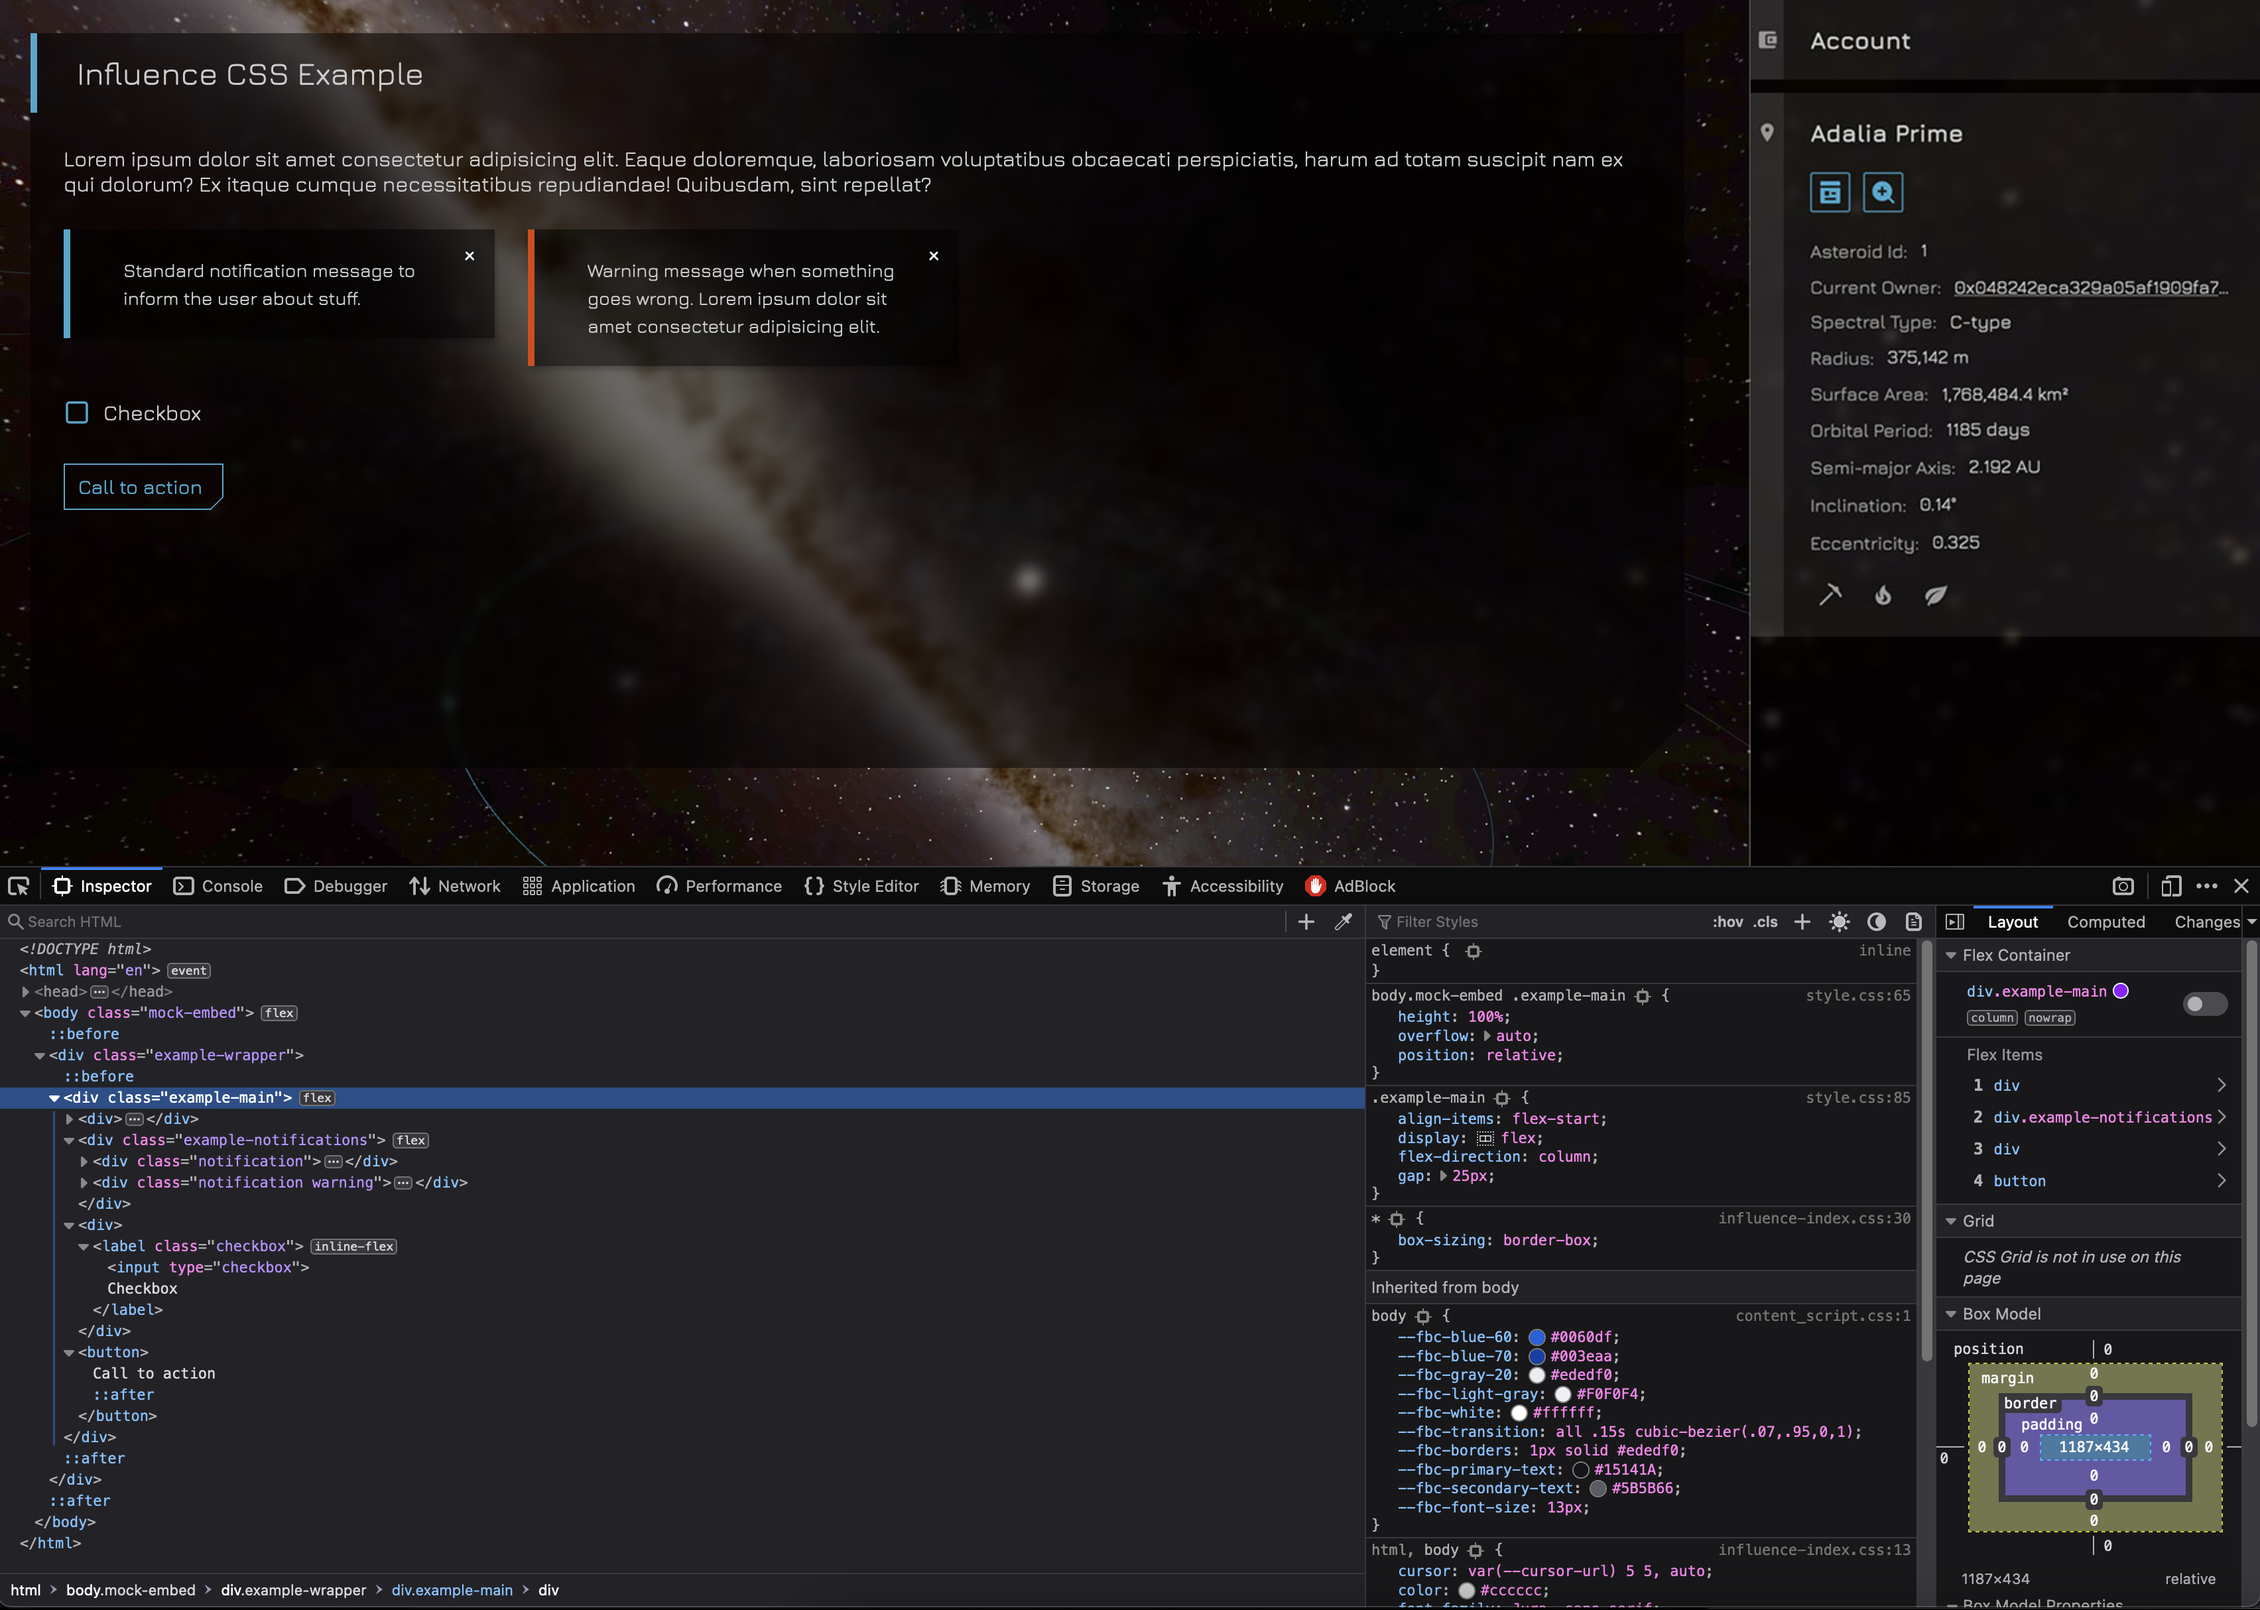
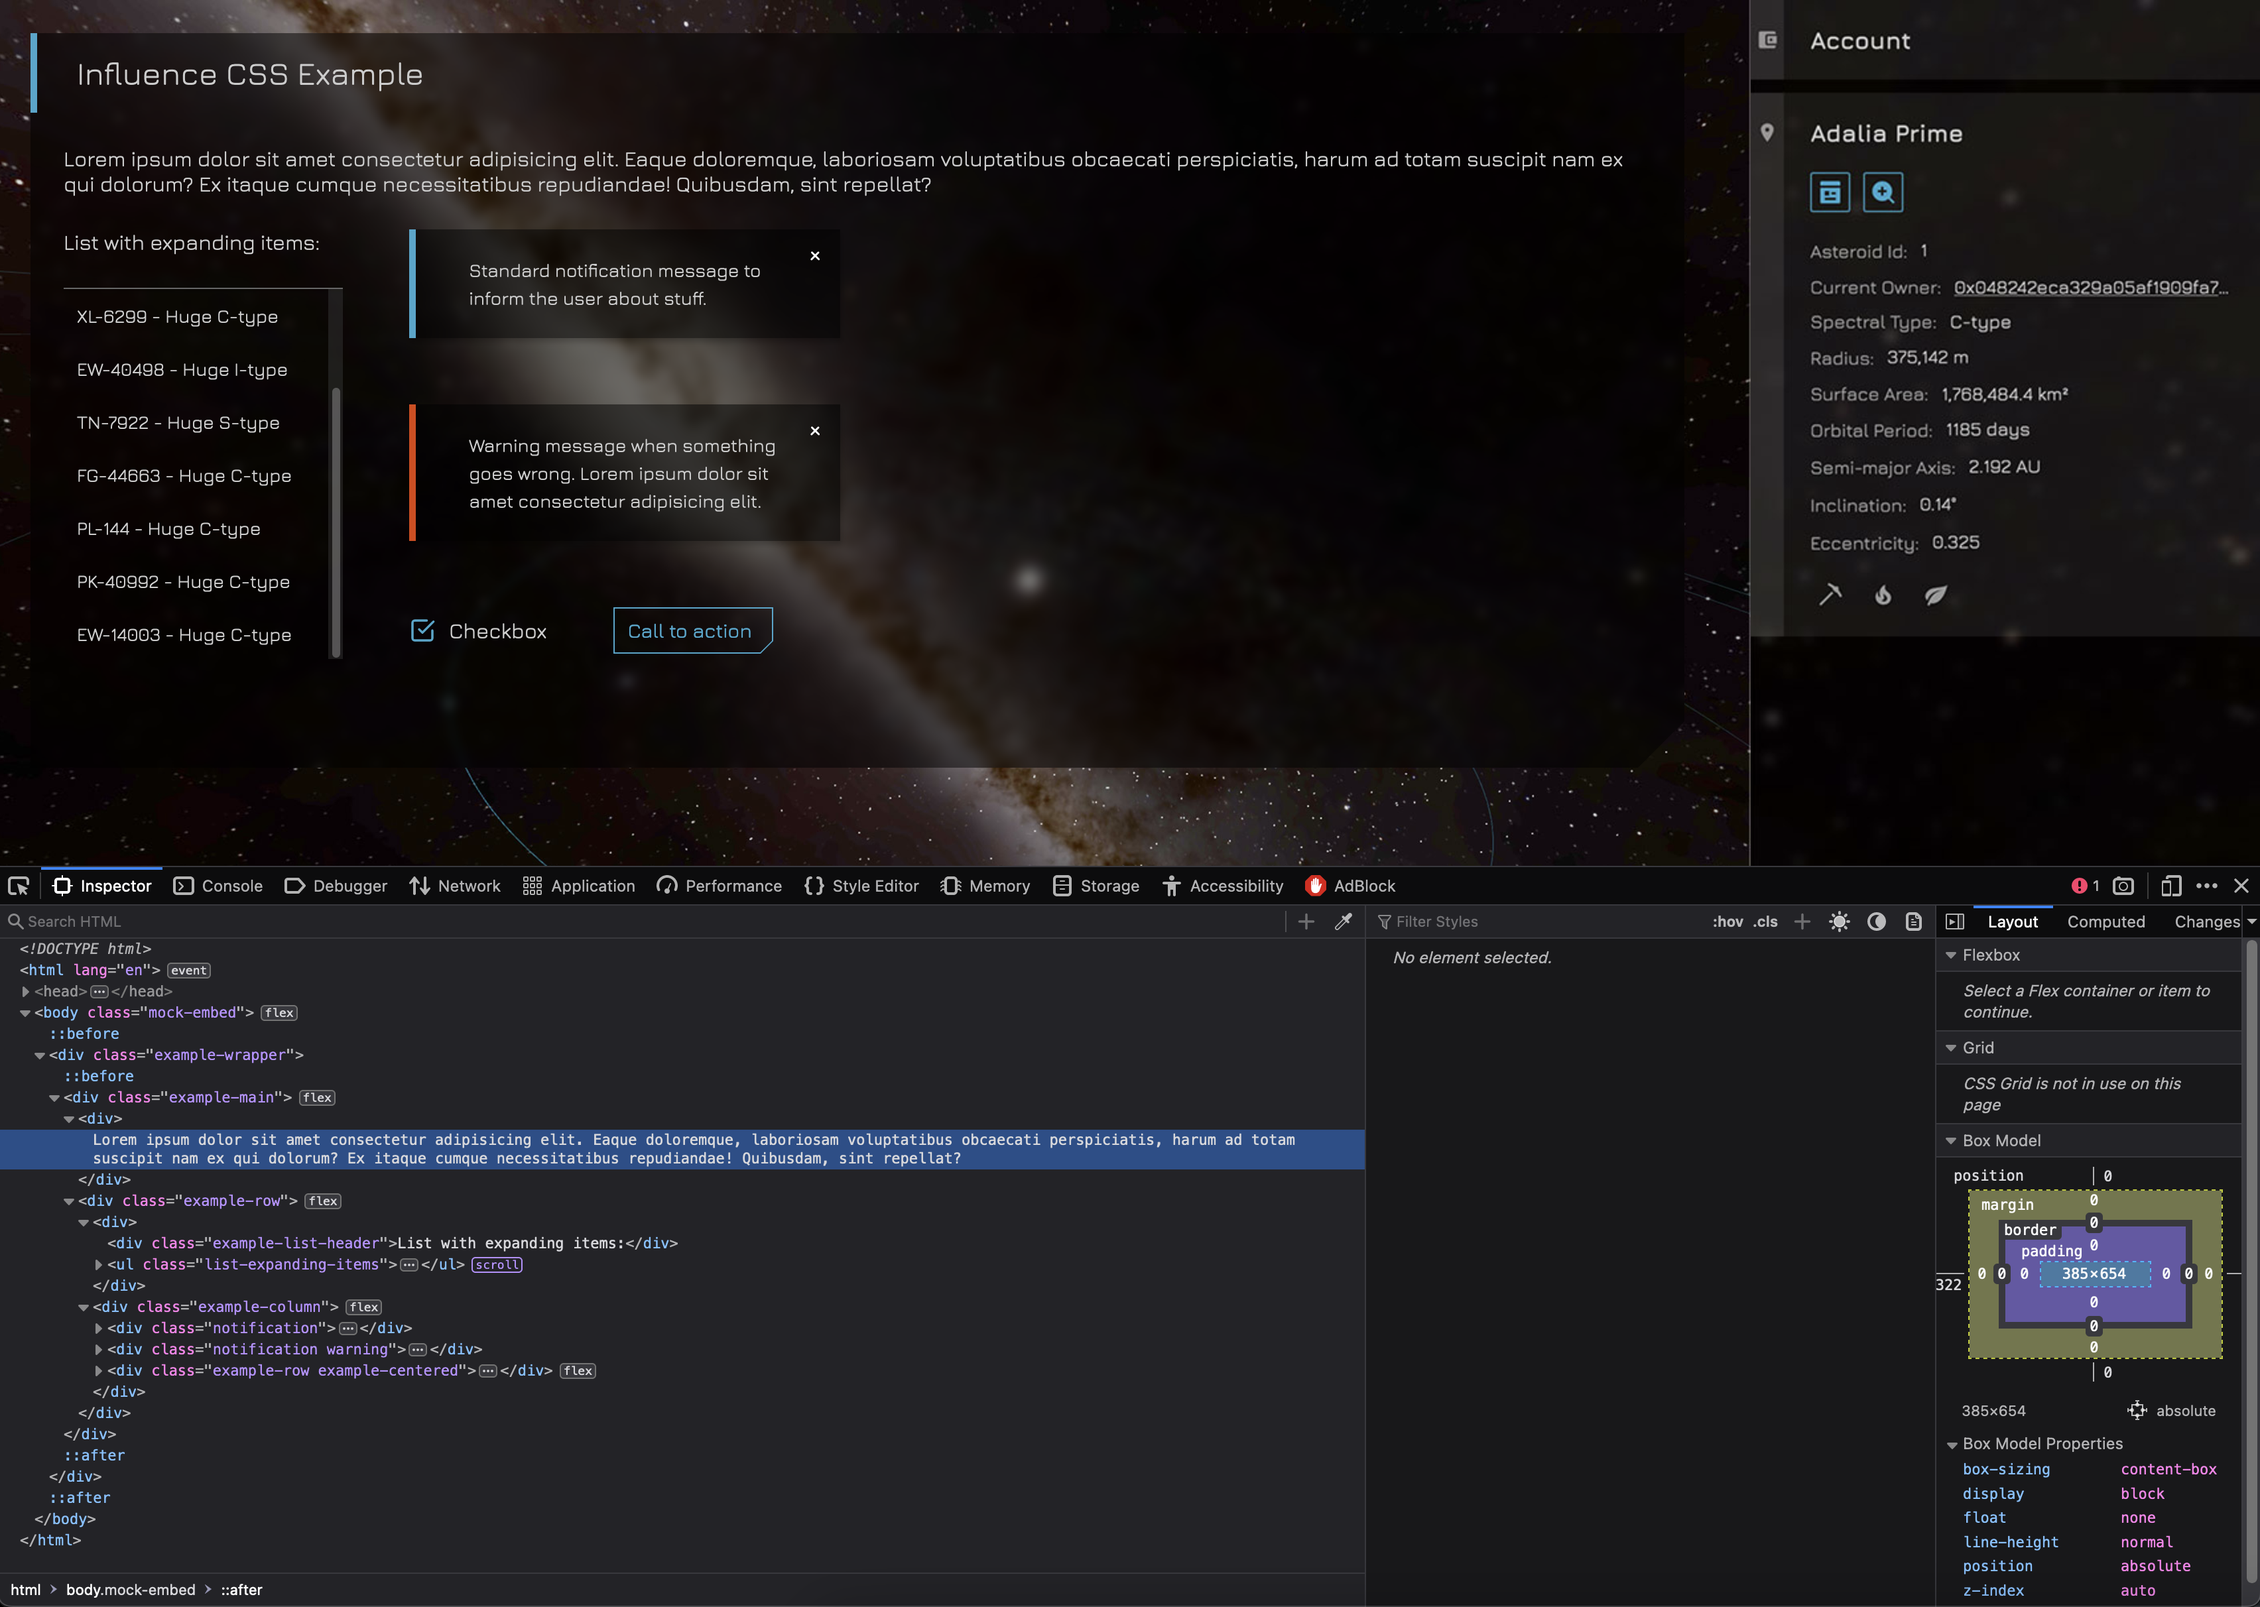
Add styling for lists with expanding items

diff --git a/example/index.html b/example/index.html
@@ -12,20 +12,63 @@
     <div class="example-wrapper">
         <div class="example-main">
             <div>Lorem ipsum dolor sit amet consectetur adipisicing elit. Eaque doloremque, laboriosam voluptatibus obcaecati perspiciatis, harum ad totam suscipit nam ex qui dolorum? Ex itaque cumque necessitatibus repudiandae! Quibusdam, sint repellat?</div>
-            <div class="example-notifications">
-                <div class="notification">
-                    <div class="notification-close"></div>
-                    <div>Standard notification message to inform the user about stuff.</div>
+            <div class="example-row">
+                <div>
+                    <div class="example-list-header">List with expanding items:</div>
+                    <ul class="list-expanding-items">
+                        <li>
+                            <div class="item-title">Adalia Prime - Huge C-type</div>
+                            <div class="item-expand">Asteroid Id: 1<br>Radius: 375,142 m<br>Surface Area: 1,768,484 km2</div>
+                        </li>
+                        <li>
+                            <div class="item-title">WC-1413 - Huge C-type</div>
+                            <div class="item-expand">Asteroid Id: 00<br>Radius: 123,456 m<br>Surface Area: 1,234,567 km2</div>
+                        </li>
+                        <li>
+                            <div class="item-title">XL-6299 - Huge C-type</div>
+                            <div class="item-expand">Asteroid Id: 00<br>Radius: 123,456 m<br>Surface Area: 1,234,567 km2</div>
+                        </li>
+                        <li>
+                            <div class="item-title">EW-40498 - Huge I-type</div>
+                            <div class="item-expand">Asteroid Id: 00<br>Radius: 123,456 m<br>Surface Area: 1,234,567 km2</div>
+                        </li>
+                        <li>
+                            <div class="item-title">TN-7922 - Huge S-type</div>
+                            <div class="item-expand">Asteroid Id: 00<br>Radius: 123,456 m<br>Surface Area: 1,234,567 km2</div>
+                        </li>
+                        <li>
+                            <div class="item-title">FG-44663 - Huge C-type</div>
+                            <div class="item-expand">Asteroid Id: 00<br>Radius: 123,456 m<br>Surface Area: 1,234,567 km2</div>
+                        </li>
+                        <li>
+                            <div class="item-title">PL-144 - Huge C-type</div>
+                            <div class="item-expand">Asteroid Id: 00<br>Radius: 123,456 m<br>Surface Area: 1,234,567 km2</div>
+                        </li>
+                        <li>
+                            <div class="item-title">PK-40992 - Huge C-type</div>
+                            <div class="item-expand">Asteroid Id: 00<br>Radius: 123,456 m<br>Surface Area: 1,234,567 km2</div>
+                        </li>
+                        <li>
+                            <div class="item-title">EW-14003 - Huge C-type</div>
+                            <div class="item-expand">Asteroid Id: 00<br>Radius: 123,456 m<br>Surface Area: 1,234,567 km2</div>
+                        </li>
+                    </ul>
                 </div>
-                <div class="notification warning">
-                    <div class="notification-close"></div>
-                    <div>Warning message when something goes wrong. Lorem ipsum dolor sit amet consectetur adipisicing elit.</div>
+                <div class="example-column">
+                    <div class="notification">
+                        <div class="notification-close"></div>
+                        <div>Standard notification message to inform the user about stuff.</div>
+                    </div>
+                    <div class="notification warning">
+                        <div class="notification-close"></div>
+                        <div>Warning message when something goes wrong. Lorem ipsum dolor sit amet consectetur adipisicing elit.</div>
+                    </div>
+                    <div class="example-row example-centered">
+                        <label class="checkbox"><input type="checkbox"> Checkbox</label>
+                        <button>Call to action</button>
+                    </div>
                 </div>
             </div>
-            <div>
-                <label class="checkbox"><input type="checkbox"> Checkbox</label>
-            </div>
-            <button>Call to action</button>
         </div>
     </div>
 </body>

diff --git a/style/influence-index.css b/style/influence-index.css
@@ -6,13 +6,15 @@
     --highlight-faded-25: rgba(var(--highlight-red), var(--highlight-green), var(--highlight-blue), 0.25);
     /* IMPORTANT: any change of this highlight color should also be applied in background-images */
     --warning: rgb(223, 67, 0);
+    --gray: rgb(204, 204, 204);
+    --darkgray: rgb(102, 102, 102);
     --cursor-url: url('../assets/images/cursor.png');
     --cursor-active-url: url('../assets/images/cursor-active.png');
 }
 
 html, body {
     cursor: var(--cursor-url) 5 5, auto;
-    color: #cccccc;
+    color: var(--gray);
     font-family: Jura, sans-serif;
     height: 100%;
     margin: 0;
@@ -38,6 +40,12 @@ input[type='number'] {
 input::-webkit-outer-spin-button,
 input::-webkit-inner-spin-button {
     -webkit-appearance: none;
+}
+
+ul {
+    list-style-type: none;
+    margin: 0;
+    padding: 0;
 }
 
 /* Scroll bar */
@@ -90,7 +98,7 @@ button::after {
     bottom: -1px;
     content: '';
     height: 10px;
-    margin-right: 0px;
+    margin-right: 0;
     position: absolute;
     right: -1px;
     width: 10px;
@@ -133,7 +141,7 @@ input[type='checkbox']:checked {
     box-shadow: 1px 3px 4px rgba(0, 0, 0, 0.2);
     cursor: var(--cursor-active-url) 5 5, auto;
     font-size: 14px;
-    line-height: 150%;
+    line-height: 1.5;
     padding: 20px 30px 20px 40px;
     position: relative;
     width: 325px;
@@ -159,4 +167,47 @@ input[type='checkbox']:checked {
     position: absolute;
     top: 50%;
     transform: translate(-50%,-50%);
+}
+
+/* List with expanding items */
+
+ul.list-expanding-items {
+    --list-item-height: 40px;
+    border-top: 1px solid var(--darkgray);
+    box-shadow: rgb(0, 0, 0) 0px 5px 7px -8px inset;
+    font-size: 14px;
+    overflow-y: auto;
+    scrollbar-width: thin;
+}
+
+ul.list-expanding-items li {
+    border-top: 1px solid transparent;
+    border-bottom: 1px solid transparent;
+    height: var(--list-item-height);
+    max-height: var(--list-item-height);
+    overflow: hidden;
+    padding: 0 20px 0 10px;
+    transition: all 0.3s ease 0s;
+}
+
+ul.list-expanding-items li:hover {
+    background-color: rgba(40, 40, 40, 0.5);
+    border-top: 1px solid var(--darkgray);
+    border-bottom: 1px solid var(--darkgray);
+    height: 120px;
+    max-height: 120px;
+}
+
+ul.list-expanding-items li:first-child:hover {
+    border-top-color: transparent;
+}
+
+ul.list-expanding-items li .item-title {
+    line-height: var(--list-item-height);
+    white-space: nowrap;
+}
+
+ul.list-expanding-items li .item-expand {
+    line-height: 1.5;
+    white-space: nowrap;
 }

diff --git a/example/style.css b/example/style.css
@@ -89,8 +89,30 @@ body {
     gap: 25px;
 }
 
-.example-notifications {
+.example-row {
     align-items: flex-start;
     display: flex;
-    gap: 25px;
+    gap: 50px;
+}
+
+.example-row.example-centered {
+    align-items: center;
+}
+
+.example-column {
+    display: flex;
+    flex-direction: column;
+    gap: 50px;
+}
+
+.example-list-header {
+    margin-bottom: 25px;
+}
+
+ul.list-expanding-items {
+    max-height: calc(7 * var(--list-item-height));
+}
+
+ul.list-expanding-items li .item-expand {
+    opacity: 0.5;
 }
